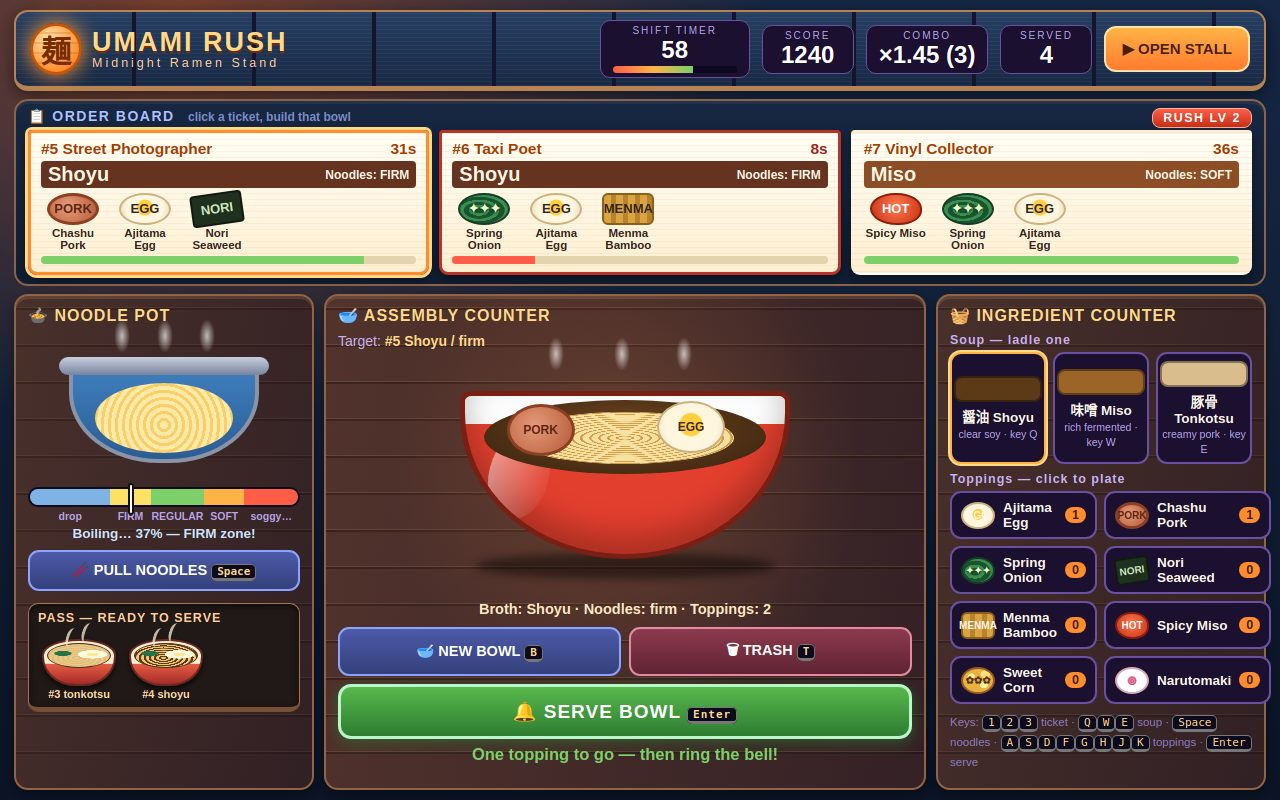
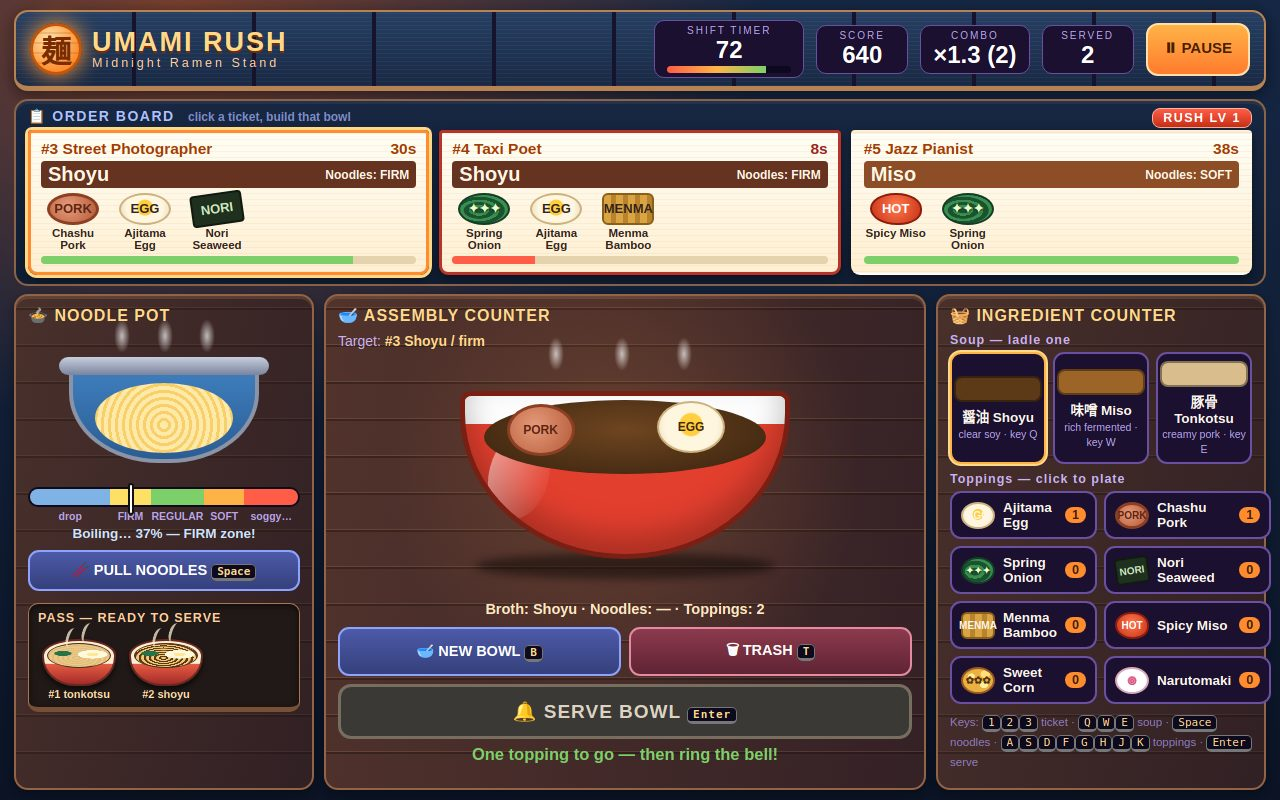
Final round: coherent screenshot timeline, PAUSE button mid-shift, big PERFECT pop, full-screen results
- shots.js: the four scenes are now one shift in order (timer 72/46/23/0,
  score 640/1620/2590/3540, served 2/5/8/11, perfect 2/4/6/8); end scene
  accuracy 73% for grade A instead of 64%
- start button becomes PAUSE/RESUME during a shift (real pause: clock and
  kitchen input freeze); OPEN STALL only before/after service
- PERFECT BOWL! pop over the bowl with combo, set on a real perfect serve
  and cleared by the next kitchen action; play scene bowl now holds its
  pulled SOFT noodles instead of 'Noodles: -'
- results overlay is a full-screen opaque report: grade, stat chips,
  pass recap, closed order board recap, counter recap

diff --git a/game/src/shots.js b/game/src/shots.js
@@ -1,6 +1,8 @@
 // Deterministic screenshot scenes, reached with ?shot=<name>&seed=<n>.
-// Each scene builds a real mid-shift state with the game's own rules — the
-// same orders, pot and bowl a player would see — then freezes the clock so
+// The four scenes are one single shift told in order — cover, serve, play,
+// end — so the clock only ever runs down and the score, bowls served and
+// perfect count only ever climb from frame to frame. Each scene builds a
+// real mid-shift state with the game's own rules, then freezes the clock so
 // the camera captures a stable, honest frame of the game.
 import { createSeededRng, createShiftState, startShift, selectOrder, addOrder } from './game.js';
 import { takeFreshBowl, ladleBroth, addToppingToBowl } from './cooking.js';
@@ -22,65 +24,85 @@ export function buildShotScene(name, seed) {
 
   const target = state.orders[0];
   if (name === 'cover') {
-    state.timeLeft = 58; state.elapsed = 32;
-    state.score = 1240; state.combo = 3; state.servedCount = 4; state.perfectCount = 3;
+    // 18 seconds in: two bowls out, ticket #3 on the counter with its
+    // noodles still bubbling in the FIRM zone, and #4 about to walk.
+    state.timeLeft = 72; state.elapsed = 18;
+    state.score = 640; state.combo = 2; state.bestCombo = 2;
+    state.servedCount = 2; state.perfectCount = 2; state.walkedOut = 0;
     state.kitchen.pass = [
-      { label: '#3 tonkotsu', broth: 'tonkotsu' },
-      { label: '#4 shoyu', broth: 'shoyu' },
+      { label: '#1 tonkotsu', broth: 'tonkotsu' },
+      { label: '#2 shoyu', broth: 'shoyu' },
     ];
     addOrder(state);
-    state.orders.forEach((order, index) => { order.number = 5 + index; });
-    Object.assign(target, { broth: 'shoyu', doneness: 'firm', toppings: ['chashu', 'ajitama', 'nori'], patience: 36, patienceLeft: 31 });
+    state.orders.forEach((order, index) => { order.number = 3 + index; });
+    Object.assign(target, { broth: 'shoyu', doneness: 'firm', toppings: ['chashu', 'ajitama', 'nori'], patience: 36, patienceLeft: 30 });
     Object.assign(state.orders[1], { toppings: ['negi', 'ajitama', 'menma'], patience: 36, patienceLeft: 8 });
     plateTicket(state, target, 2);
+    state.kitchen.bowl.noodleDoneness = null; // still in the pot, not yet pulled
     state.kitchen.potProgress = 0.375;
     state.feedback = 'One topping to go — then ring the bell!';
     state.feedbackKind = 'good';
   }
 
   if (name === 'serve') {
-    state.timeLeft = 41; state.elapsed = 49;
-    state.score = 2315; state.combo = 5; state.servedCount = 7; state.perfectCount = 5;
-    state.kitchen.pass = [{ label: '#7 miso', broth: 'miso' }];
-    state.orders.forEach((order, index) => { order.number = 8 + index; });
+    // 44 seconds in: five bowls out, ticket #6 finished and steaming on the
+    // counter, two more tickets already pinned behind it.
+    state.timeLeft = 46; state.elapsed = 44;
+    state.score = 1620; state.combo = 4; state.bestCombo = 4;
+    state.servedCount = 5; state.perfectCount = 4; state.walkedOut = 0;
+    state.kitchen.pass = [
+      { label: '#3 shoyu', broth: 'shoyu' },
+      { label: '#4 miso', broth: 'miso' },
+      { label: '#5 tonkotsu', broth: 'tonkotsu' },
+    ];
+    addOrder(state);
+    state.orders.forEach((order, index) => { order.number = 6 + index; });
     Object.assign(target, {
       broth: 'tonkotsu',
+      doneness: 'regular',
       toppings: ['chashu', 'ajitama', 'nori'],
       patience: 34,
       patienceLeft: 28,
     });
-    Object.assign(state.orders[1], { toppings: ['corn', 'negi', 'karamiso'], patience: 34, patienceLeft: 31 });
+    Object.assign(state.orders[1], { toppings: ['corn', 'negi', 'karamiso'], patience: 34, patienceLeft: 20 });
     plateTicket(state, target);
     state.feedback = 'Bowl complete — hit SERVE while it steams!';
     state.feedbackKind = 'good';
   }
 
   if (name === 'play') {
-    // The payoff moment: the last bowl was PERFECT, the combo is hot, and the
-    // next bowl is already boiling toward its SOFT window.
-    state.timeLeft = 64; state.elapsed = 26;
-    state.score = 2360; state.combo = 5; state.servedCount = 5; state.perfectCount = 5;
-    state.kitchen.pass = [{ label: '#5 tonkotsu', broth: 'tonkotsu' }];
-    state.orders.forEach((order, index) => { order.number = 6 + index; });
-    Object.assign(target, { broth: 'miso', doneness: 'soft', toppings: ['narutomaki', 'corn'], patience: 37, patienceLeft: 34 });
-    Object.assign(state.orders[1], { patience: 37, patienceLeft: 36 });
-    plateTicket(state, target);
-    state.kitchen.bowl.noodleDoneness = null;
-    state.kitchen.potProgress = 0.73;
-    state.feedback = 'PERFECT BOWL! +592 — combo ×1.75! Next bowl: pull SOFT now!';
+    // 67 seconds in: ticket #8 just flew out PERFECT and the banner is still
+    // up, while bowl #9 is already plated — noodles pulled SOFT, one
+    // topping to go — under the late-shift rush.
+    state.timeLeft = 23; state.elapsed = 67;
+    state.score = 2590; state.combo = 6; state.bestCombo = 6;
+    state.servedCount = 8; state.perfectCount = 6; state.walkedOut = 1;
+    state.kitchen.pass = [
+      { label: '#6 shoyu', broth: 'shoyu' },
+      { label: '#7 miso', broth: 'miso' },
+      { label: '#8 tonkotsu', broth: 'tonkotsu' },
+    ];
+    state.orders.forEach((order, index) => { order.number = 9 + index; });
+    Object.assign(target, { broth: 'miso', doneness: 'soft', toppings: ['narutomaki', 'corn', 'negi'], patience: 37, patienceLeft: 30 });
+    Object.assign(state.orders[1], { patience: 37, patienceLeft: 35 });
+    plateTicket(state, target, 2);
+    state.perfectBanner = true;
+    state.feedback = 'PERFECT BOWL! +592 — #8 flew out. This one needs negi, then serve!';
     state.feedbackKind = 'good';
   }
 
   if (name === 'end') {
+    // Time up: eleven bowls served, eight of them perfect (73% — a solid A,
+    // not a gift), two owls walked out, two tickets still on the board.
     state.timeLeft = 0; state.elapsed = 90; state.over = true;
-    state.score = 3480; state.servedCount = 11; state.perfectCount = 7;
-    state.walkedOut = 2;
-    state.kitchen.pass = [{ label: '#12 shoyu', broth: 'shoyu' }, { label: '#13 miso', broth: 'miso' }];
-    state.orders.pop();
-    addOrder(state).patienceLeft = 22;
+    state.score = 3540; state.combo = 0; state.bestCombo = 6;
+    state.servedCount = 11; state.perfectCount = 8; state.walkedOut = 2;
+    state.kitchen.pass = [
+      { label: '#9 shoyu', broth: 'shoyu' },
+      { label: '#10 miso', broth: 'miso' },
+      { label: '#11 tonkotsu', broth: 'tonkotsu' },
+    ];
     state.orders.forEach((order, index) => { order.number = 14 + index; });
-    Object.assign(target, { broth: 'miso', toppings: ['ajitama', 'nori', 'corn', 'karamiso'], patience: 30, patienceLeft: 11 });
-    plateTicket(state, target, 3);
     state.feedback = 'Last train gone. The night owls are fed.';
   }
   return state;

diff --git a/game/src/render.js b/game/src/render.js
@@ -37,11 +37,31 @@ function ticketHtml(order) {
     <div class="patience"><div style="width:${pct}%"></div></div>`;
 }
 
+function comboMultiplier(state) {
+  return (1 + 0.15 * Math.min(state.combo, 6)).toFixed(2).replace(/0$/, '');
+}
+
 export function renderGame(state) {
+  // The header button starts the stall before a shift, then becomes the
+  // pause/resume control while a shift is on — it never offers "OPEN STALL"
+  // in the middle of service.
+  const startBtn = el('start-btn');
+  const inShift = !state.over && (state.running || state.orders.length > 0);
+  startBtn.textContent = inShift ? (state.paused ? '▶ RESUME' : '⏸ PAUSE') : '▶ OPEN STALL';
+
+  // Big celebration pop over the bowl right after a perfect serve.
+  const pop = el('perfect-pop');
+  if (state.perfectBanner) {
+    pop.classList.remove('hidden');
+    pop.querySelector('.perfect-sub').textContent = `COMBO ×${comboMultiplier(state)} (${state.combo})`;
+  } else {
+    pop.classList.add('hidden');
+  }
+
   el('shift-time').textContent = String(Math.ceil(state.timeLeft));
   el('shift-meter').style.width = `${(state.timeLeft / 90) * 100}%`;
   el('score').textContent = String(state.score);
-  el('combo').textContent = `×${(1 + 0.15 * Math.min(state.combo, 6)).toFixed(2).replace(/0$/, '')} (${state.combo})`;
+  el('combo').textContent = `×${comboMultiplier(state)} (${state.combo})`;
   el('served').textContent = String(state.servedCount);
   el('rush-level').textContent = `RUSH LV ${1 + Math.floor(elapsedRatio(state) * 3.99)}`;
 
@@ -140,7 +160,61 @@ export function showOverlay(title, text, buttonLabel, isResults = false) {
   el('overlay-title').textContent = title;
   el('overlay-text').textContent = text;
   el('overlay-btn').textContent = buttonLabel;
+  el('overlay-extra').classList.add('hidden');
+  el('overlay-extra').innerHTML = '';
   el('overlay').classList.toggle('results', isResults);
   el('overlay').classList.remove('hidden');
+}
+
+/**
+ * Full-screen closing report for the results overlay: the grade up top, the
+ * night's numbers as stat chips, the last bowls on the pass, what is left on
+ * the board, and the counter's toppings — the whole shift at a glance, with
+ * nothing of the live game showing behind it.
+ */
+export function renderResults(state) {
+  const accuracy = state.servedCount > 0 ? Math.round((state.perfectCount / state.servedCount) * 100) : 0;
+  const grade = accuracy >= 80 ? 'S' : accuracy >= 60 ? 'A' : accuracy >= 40 ? 'B' : 'C';
+  const pinned = state.servedCount + state.walkedOut + state.orders.length;
+  const chip = (label, value) => `<div class="stat-chip"><span>${label}</span><b>${value}</b></div>`;
+  const passBowls = state.kitchen.pass.map((p) =>
+    `<div class="pass-bowl">
+      <div class="mini-bowl" aria-hidden="true"><span class="mini-steam"></span>
+        <div class="mini-broth" style="background-color:${brothById(p.broth).color}"></div>
+      </div>
+      <span>${p.label}</span>
+    </div>`).join('');
+  const leftTickets = state.orders.map((order) =>
+    `<span class="recap-ticket">#${order.number} ${brothById(order.broth).name}</span>`).join('');
+  const counterChips = TOPPINGS.map((t) =>
+    `<span class="chip top-${t.id} recap-chip">${t.short}</span>`).join('');
+  el('overlay-extra').innerHTML = `
+    <div class="results-grade"><span>STALL GRADE</span><b>${grade}</b></div>
+    <div class="stat-chips">
+      ${chip('FINAL SCORE', state.score)}
+      ${chip('BOWLS SERVED', state.servedCount)}
+      ${chip('PERFECT BOWLS', state.perfectCount)}
+      ${chip('ACCURACY', `${accuracy}%`)}
+      ${chip('WALKED OUT', state.walkedOut)}
+      ${chip('BEST COMBO', `×${(1 + 0.15 * Math.min(state.bestCombo, 6)).toFixed(2).replace(/0$/, '')}`)}
+      ${chip('SHIFT TIMER', '0:00 — TIME UP')}
+    </div>
+    <div class="recap-row">
+      <div class="recap-panel">
+        <h3>PASS — LAST BOWLS OUT</h3>
+        <div class="recap-pass">${passBowls}</div>
+      </div>
+      <div class="recap-panel">
+        <h3>ORDER BOARD — CLOSED</h3>
+        <p>${pinned} tickets pinned tonight · ${state.servedCount} served · ${state.walkedOut} walked out</p>
+        <p>Left on the board: ${leftTickets || 'none — every owl fed'}</p>
+      </div>
+      <div class="recap-panel">
+        <h3>FROM THE COUNTER</h3>
+        <div class="recap-counter">${counterChips}</div>
+        <p>3 broths · 8 toppings · one steaming pot</p>
+      </div>
+    </div>`;
+  el('overlay-extra').classList.remove('hidden');
 }
 export function hideOverlay() { el('overlay').classList.add('hidden'); }

diff --git a/game/src/main.js b/game/src/main.js
@@ -5,9 +5,9 @@ import {
   takeFreshBowl, trashBowl, ladleBroth, addToppingToBowl,
   dropNoodlesInPot, pullNoodlesFromPot, tickPot,
 } from './cooking.js';
-import { buildCounterButtons, renderGame, showOverlay, hideOverlay } from './render.js';
+import { buildCounterButtons, renderGame, showOverlay, hideOverlay, renderResults } from './render.js';
 import { bindKeyboard, bindTicketClicks, blurButtonsAfterClick } from './input.js';
-import { buildShotScene, shotEndSummary } from './shots.js';
+import { buildShotScene } from './shots.js';
 import { sfx } from './audio.js';
 
 const params = new URLSearchParams(location.search);
@@ -21,18 +21,26 @@ let state = shotName
 
 const handlers = {
   onBroth(brothId) {
+    if (state.paused) return;
+    state.perfectBanner = false;
     if (!state.kitchen.bowl) takeFreshBowl(state.kitchen);
     if (ladleBroth(state.kitchen, brothId)) { sfx.ladle(); state.feedback = ''; }
     renderGame(state);
   },
   onTopping(toppingId) {
+    if (state.paused) return;
+    state.perfectBanner = false;
     if (!state.kitchen.bowl) takeFreshBowl(state.kitchen);
     if (addToppingToBowl(state.kitchen, toppingId)) sfx.plate();
     renderGame(state);
   },
-  onNewBowl() { takeFreshBowl(state.kitchen); sfx.click(); renderGame(state); },
-  onTrash() { trashBowl(state.kitchen); sfx.trash(); renderGame(state); },
+  onNewBowl() {
+    if (state.paused) return; state.perfectBanner = false; takeFreshBowl(state.kitchen); sfx.click(); renderGame(state); },
+  onTrash() {
+    if (state.paused) return; state.perfectBanner = false; trashBowl(state.kitchen); sfx.trash(); renderGame(state); },
   onNoodleAction() {
+    if (state.paused) return;
+    state.perfectBanner = false;
     if (state.kitchen.potProgress === null) {
       if (dropNoodlesInPot(state.kitchen)) sfx.dropNoodles();
     } else {
@@ -48,7 +56,9 @@ const handlers = {
     renderGame(state);
   },
   onServe() {
+    if (state.paused) return;
     const result = serveCurrentBowl(state);
+    state.perfectBanner = Boolean(result?.perfect);
     if (result) { sfx.serveBell(); if (result.perfect) setTimeout(() => sfx.perfect(), 150); }
     renderGame(state);
   },
@@ -74,11 +84,20 @@ function beginShift() {
   hideOverlay();
   renderGame(state);
 }
-document.getElementById('start-btn').addEventListener('click', beginShift);
+// Mid-shift the header button pauses/resumes; otherwise it opens the stall.
+document.getElementById('start-btn').addEventListener('click', () => {
+  if (!state.over && (state.running || state.orders.length > 0)) {
+    state.paused = !state.paused;
+    renderGame(state);
+  } else {
+    beginShift();
+  }
+});
 document.getElementById('overlay-btn').addEventListener('click', beginShift);
 
 if (shotName === 'end') {
-  showOverlay('🌙 SHIFT OVER', shotEndSummary(state), 'PLAY AGAIN', true);
+  showOverlay('🌙 SHIFT OVER', 'Last train gone. The night owls are fed.', 'PLAY AGAIN', true);
+  renderResults(state);
 } else if (!shotName) {
   showOverlay('🍜 UMAMI RUSH — Midnight Ramen Stand',
     'Ninety seconds, one steaming pot, a board full of hungry night owls.\nMatch each ticket: broth, noodle doneness, every topping.\nPull the noodles inside the ticket\'s zone — perfect bowls build your combo.',
@@ -91,14 +110,15 @@ let lastTimestamp = performance.now();
 function frame(now) {
   const dt = Math.min(0.1, (now - lastTimestamp) / 1000);
   lastTimestamp = now;
-  if (state.running && !state.over) {
+  if (state.running && !state.paused && !state.over) {
     tickPot(state.kitchen, dt);
     tickShift(state, dt, {
       onWalkout() { sfx.walkout(); },
       onShiftEnd() {
         showOverlay('🌙 SHIFT OVER',
-          shotEndSummary(state),
+          'Last train gone. The night owls are fed.',
           'PLAY AGAIN', true);
+        renderResults(state);
       },
     });
     renderGame(state);

diff --git a/game/style.css b/game/style.css
@@ -270,13 +270,39 @@ kbd { background: #0e0a1e; border: 1px solid #777; border-bottom-width: 3px; bor
 }
 .mini-steam::before { left: 11px; top: 3px; }
 .mini-steam::after { left: 27px; top: -2px; }
-#overlay.results { position: absolute; align-items: end; padding-bottom: 16px; background: #100b1618; }
-.results #overlay-card {
-  width: 500px; padding: 7px 12px; margin-right: 30px; text-align: left;
-  display: grid; grid-template-columns: 1fr auto; column-gap: 10px; align-items: center;
-}
-.results #overlay-card h2 { font-size: 21px; margin-bottom: 2px; }
-.results #overlay-card p { font-size: 14px; line-height: 1.3; }
-.results #overlay-btn { grid-column: 2; grid-row: 1 / span 2; margin: 0; padding: 7px 12px; font-size: 14px; }
+/* PERFECT celebration pop over the assembly bowl. */
+#perfect-pop { position: absolute; left: 50%; top: 46%; transform: translate(-50%, -50%) rotate(-4deg);
+  z-index: 6; text-align: center; pointer-events: none; width: 480px; }
+#perfect-pop.hidden { display: none; }
+#perfect-pop .perfect-title { font-size: 54px; font-weight: 900; letter-spacing: 1px; color: #ffd23f;
+  -webkit-text-stroke: 2px #7a2c00; text-shadow: 0 3px 0 #7a2c00, 0 6px 22px rgba(0,0,0,.65); line-height: 1.05; }
+#perfect-pop .perfect-sub { display: inline-block; margin-top: 7px; background: #1b1030; border: 2px solid #ffd23f;
+  color: #ffe9c4; font-size: 21px; font-weight: 900; letter-spacing: 2px; padding: 3px 16px; border-radius: 999px; }
+
+/* Full-screen closing report: opaque, nothing of the live game behind it. */
+#overlay.results { position: fixed; inset: 0; background: #0d0918; align-items: center; padding: 0; }
+.results #overlay-card { width: min(1060px, 94vw); max-width: none; padding: 24px 36px 26px; text-align: center; }
+.results #overlay-card h2 { font-size: 46px; margin-bottom: 2px; }
+.results #overlay-card p { font-size: 16.5px; line-height: 1.4; }
+.results #overlay-btn { margin-top: 16px; padding: 13px 40px; font-size: 18px; }
+#overlay-extra { margin-top: 12px; }
+#overlay-extra.hidden { display: none; }
+.results-grade { display: flex; align-items: baseline; justify-content: center; gap: 16px; }
+.results-grade span { font-size: 19px; font-weight: 900; letter-spacing: 4px; color: #ffcf9e; }
+.results-grade b { font-size: 88px; font-weight: 900; line-height: 1; color: #ffd23f;
+  -webkit-text-stroke: 2px #7a2c00; text-shadow: 0 4px 0 #7a2c00, 0 8px 26px rgba(0,0,0,.6); }
+.stat-chips { display: flex; gap: 8px; justify-content: center; flex-wrap: wrap; margin-top: 10px; }
+.stat-chip { background: #1b1030; border: 1.5px solid #6b4fa1; border-radius: 10px; padding: 5px 13px 7px; min-width: 104px; }
+.stat-chip span { display: block; font-size: 10px; letter-spacing: 2px; color: #b9a5e8; }
+.stat-chip b { font-size: 23px; font-weight: 900; color: #fff; }
+.recap-row { display: flex; gap: 12px; margin-top: 14px; text-align: left; }
+.recap-panel { flex: 1; background: #171029; border: 1.5px solid #8a6d3b; border-radius: 10px; padding: 8px 12px 10px; }
+.recap-panel h3 { color: #ffcf9e; font-size: 12.5px; letter-spacing: 1px; margin: 0 0 6px; }
+.recap-panel p { font-size: 13.5px !important; line-height: 1.45 !important; color: #ffe9c4; }
+.recap-pass { display: flex; gap: 5px; }
+.recap-ticket { display: inline-block; background: #fffdf4; color: #33241a; font-weight: 800; font-size: 12.5px;
+  border-radius: 6px; padding: 1px 7px; margin: 2px 2px 0 0; }
+.recap-counter { display: flex; gap: 6px; flex-wrap: wrap; margin-bottom: 6px; }
+.recap-chip { width: 40px; height: 30px; font-size: 10.5px; border-radius: 6px; }
 [data-shot] *, [data-shot] *::before, [data-shot] *::after { animation: none !important; transition: none !important; }
 [data-shot] .steam { opacity: .8; transform: translateY(-8px); }

diff --git a/game/index.html b/game/index.html
@@ -62,6 +62,7 @@
       <h2>🥣 ASSEMBLY COUNTER</h2>
       <div id="target-line">Target: <b id="target-name">—</b></div>
       <div id="bowl-stage">
+        <div id="perfect-pop" class="hidden"><div class="perfect-title">PERFECT BOWL!</div><div class="perfect-sub"></div></div>
         <div id="bowl-steam"><div class="steam bs1"></div><div class="steam bs2"></div><div class="steam bs3"></div></div>
         <div id="bowl">
           <div id="broth"></div>
@@ -95,6 +96,7 @@
     <div id="overlay-card">
       <h2 id="overlay-title">UMAMI RUSH</h2>
       <p id="overlay-text"></p>
+      <div id="overlay-extra" class="hidden"></div>
       <button id="overlay-btn">START SHIFT</button>
     </div>
   </div>

diff --git a/game/src/game.js b/game/src/game.js
@@ -18,6 +18,8 @@ export function createShiftState(rng) {
   return {
     rng,
     running: false,
+    paused: false,
+    perfectBanner: false,
     over: false,
     timeLeft: SHIFT_SECONDS,
     elapsed: 0,
@@ -51,6 +53,8 @@ export function addOrder(state) {
 
 export function startShift(state) {
   state.running = true;
+  state.paused = false;
+  state.perfectBanner = false;
   state.orders = [];
   addOrder(state); addOrder(state);
   state.spawnTimer = spawnIntervalSeconds(0);
